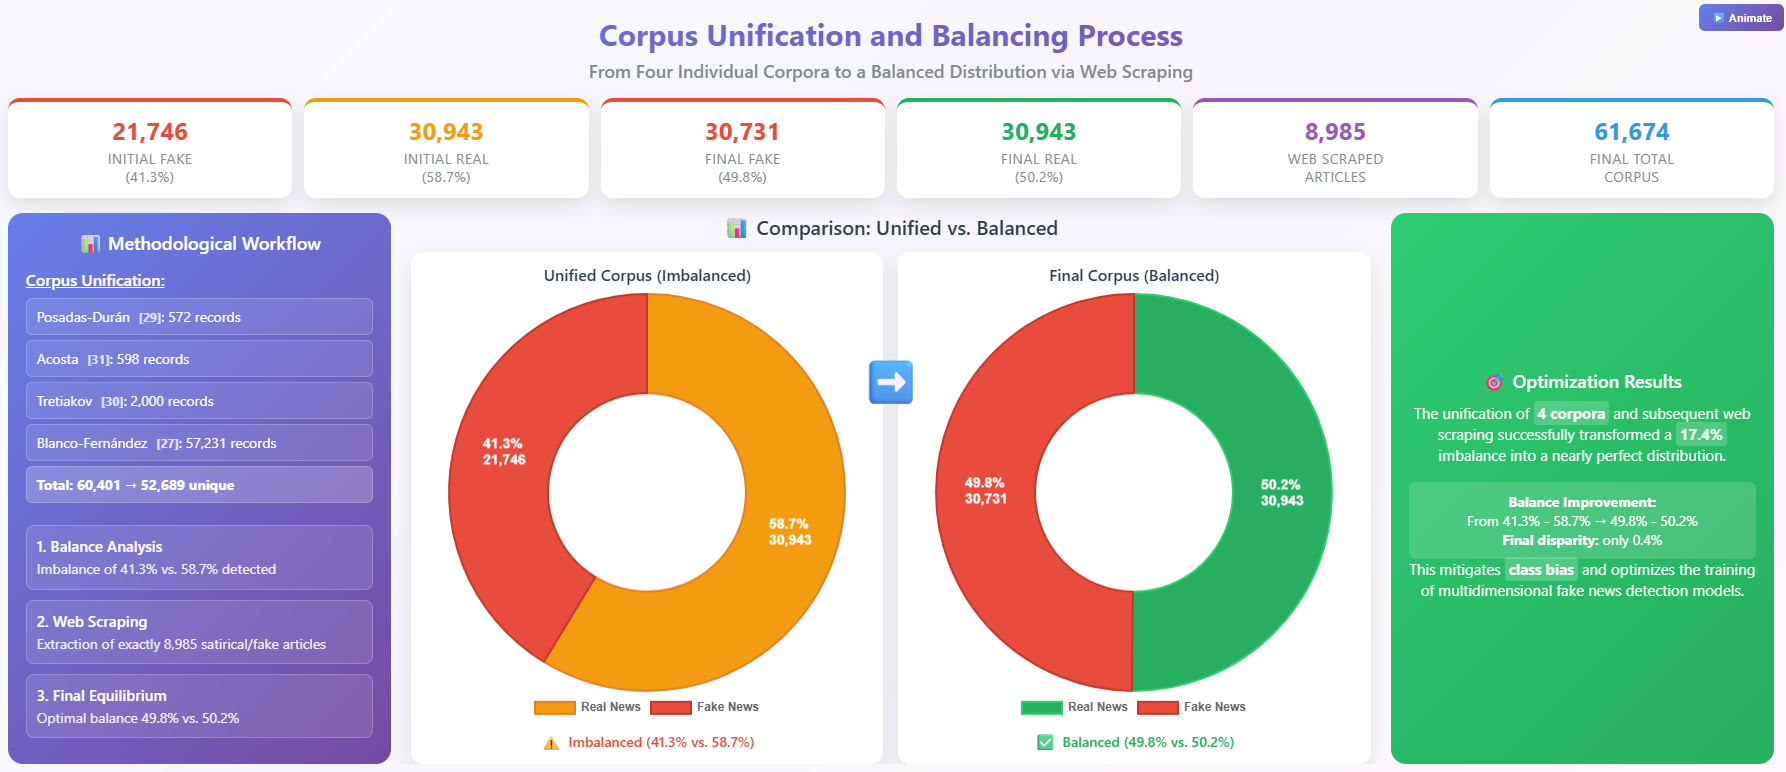
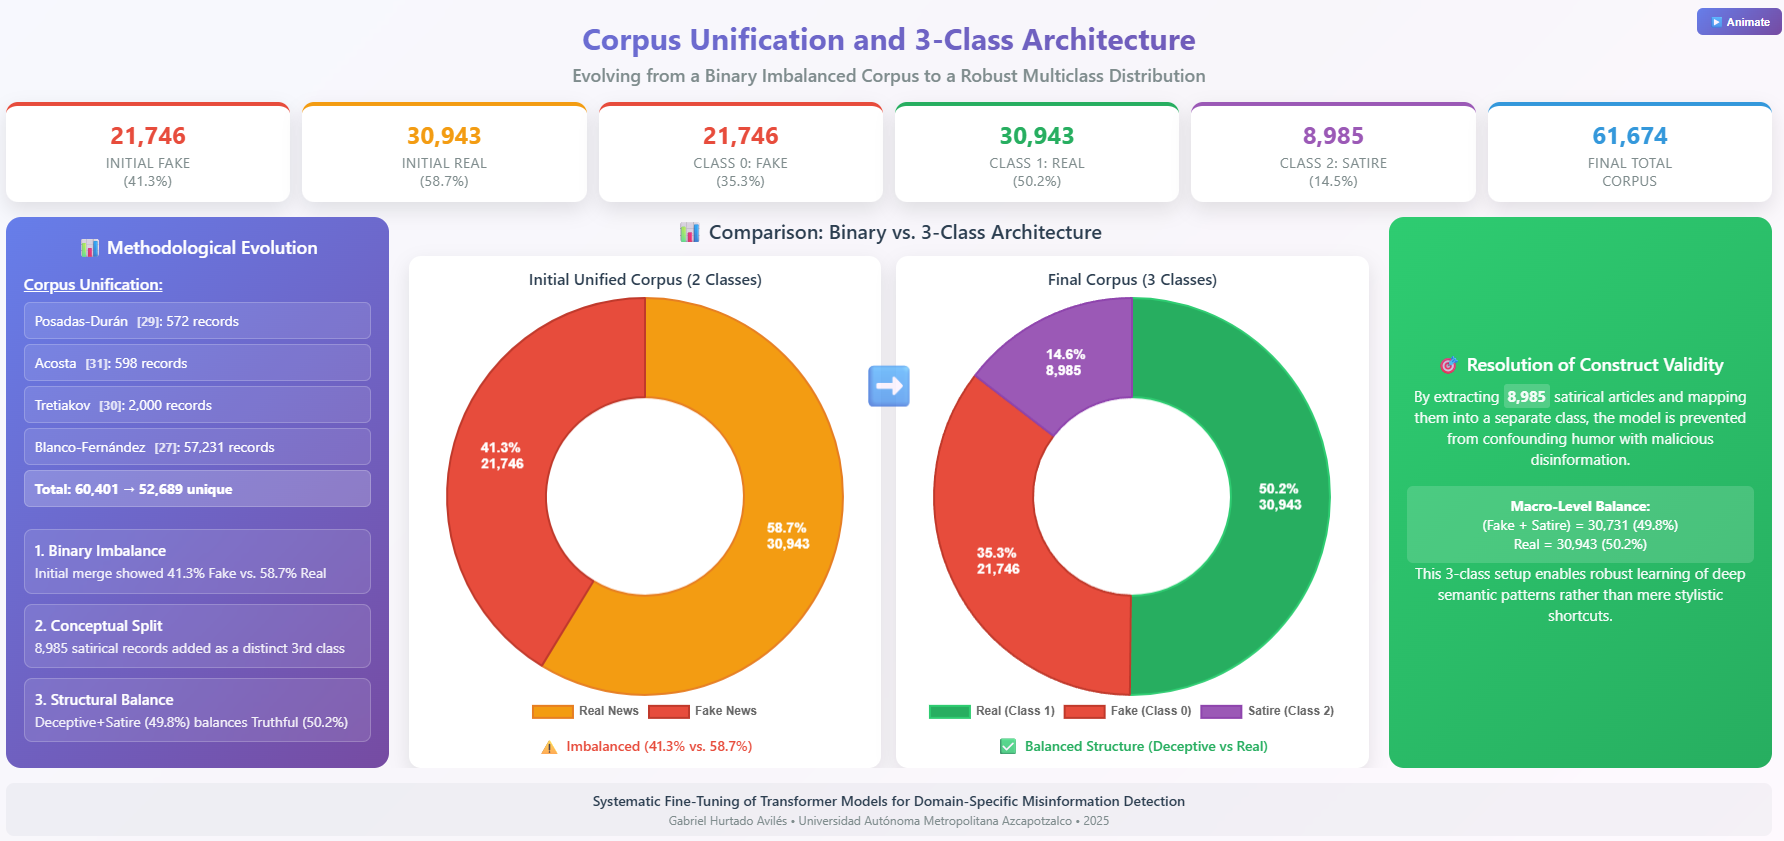
Update figures and comparative analysis
Add figure references to include DistilBERT confusion matrix, and insert a new subsection with a final comparative analysis and a performance table comparing DistilBERT against metaheuristic baselines. Also adjust related paragraph flow and move explanatory sentences for clarity. Replace corpus_balance.png and DistilBERT_confusion_matrix.png with updated images.

Changed region(s): [[0.0, 0.0311, 1.0, 0.9948], [0.7707, 0.9016, 1.0, 0.9948], [0.9557, 0.0, 1.0, 0.0311]]

diff --git a/MDPI_template/MDPI_template/Informatics/MDPI_template_ACS/template.tex b/MDPI_template/MDPI_template/Informatics/MDPI_template_ACS/template.tex
@@ -88,7 +88,8 @@ A progressive research design was adopted: a baseline is first established with 
 The main contributions of this work are:
 \begin{itemize}
     \item \textbf{A Transferable Fine-Tuning Framework:} A systematic three-stage pipeline (corpus unification, aggressive regularization, containerized deployment) is proposed for adapting pretrained transformer models to domain-specific deceptive content detection. The framework is explicitly designed to be transferable across languages, content domains, and social media platforms.
-    \item \textbf{A Systematic Regularization Methodology:} Through over 500 GPU hours of experimentation across 30+ configurations, an aggressive regularization strategy for fine-tuning DistilBERT (Distilled Bidirectional Encoder Representations from Transformers) is documented, achieving 95.36\% accuracy while maintaining a validation-training loss gap of 0.058. This represents a 23.33 percentage point improvement over metaheuristic-optimized classical methods and provides a reproducible recipe for practitioners facing similar optimization challenges.
+    \item \textbf{A Systematic Regularization Methodology:} Through over 500 GPU hours of experimentation across 30+ configurations, an aggressive regularization strategy for fine-tuning DistilBERT (Distilled Bidirectional Encoder Representations from Transformers) is documented, achieving 95.36\% accuracy while maintaining a validation-training loss gap of 0.058. The training and validation trajectories, demonstrating the effectiveness of the aggressive regularization strategy in preventing overfitting, are visually detailed in Figure \ref{fig:training_curves}.
+    This represents a 23.33 percentage point improvement over metaheuristic-optimized classical methods and provides a reproducible recipe for practitioners facing similar optimization challenges.
     \item \textbf{A Unified Spanish Corpus:} A standardized corpus of 61,674 Spanish news articles was constructed from four academic datasets \citep{posadas2019detection, acosta2019construccion, tretiakov2022detection, blanco2024enhancing} enhanced with web-scraped satirical content, achieving near-perfect balance (49.8\% fake, 50.2\% real)—one of the largest resources for this task.
     \item \textbf{A Production-Ready Web Application:} The optimized model was deployed as a Docker-containerized web application capable of real-time URL analysis, demonstrating that the framework extends beyond academic benchmarks to deliver practical tools for digital self-defense \citep{ali2022fake}.
 \end{itemize}
@@ -217,7 +218,9 @@ To ensure data quality and mitigate semantic overlaps that could cause data leak
 \textbf{Methodological Evolution: From Binary to Multiclass Classification.} 
 Initially, the research design conceptualized a binary classification task (Real vs. Fake), incorporating satirical articles as part of the "Fake" class to address class imbalance. However, extensive literature and preliminary evaluations revealed a critical construct-validity vulnerability: satire relies on irony, exaggeration, and parody markers, whereas malicious fake news relies on deceptive imitation of journalistic tone. Conflating the two forces the model to learn source-specific humor rather than robust misinformation cues, leading to miscalibration.
 
-To address this, the methodology evolved into a \textbf{three-class classification formulation}: FAKE (0), REAL (1), and SATIRE (2). The final, rigorously structured corpus consists of exactly \textbf{61,674 records}: the 52,689 deduplicated factual/deceptive articles, supplemented by an isolated class of \textbf{8,985} satirical articles extracted via web scraping from regional sources. This three-class architecture ensures the model learns to explicitly distinguish malicious disinformation from legitimate creative parody.
+To address this, the methodology evolved into a \textbf{three-class classification formulation}: FAKE (0), REAL (1), and SATIRE (2). The final, rigorously structured corpus consists of exactly \textbf{61,674 records}: the 52,689 deduplicated factual/deceptive articles, supplemented by an isolated class of \textbf{8,985} satirical articles extracted via web scraping from regional sources. This structural evolution and the resulting class distribution, which transitioned from a highly imbalanced binary setup to a three-class architecture, is visually summarized in Figure \ref{fig:corpus_balance}.
+
+This three-class architecture ensures the model learns to explicitly distinguish malicious disinformation from legitimate creative parody.
 
 Regarding sequence length, exploratory data analysis revealed that 87.4\% of the articles in the unified corpus fell within the 512-token limit of standard transformer architectures. Consequently, the remaining 12.6\% of articles were truncated. Empirical tests indicated that the most critical deceptive markers (e.g., clickbait headlines, urgency triggers in the opening paragraphs) are heavily concentrated in the first 256 tokens, negating the computational overhead that would be required to implement long-sequence encoders (such as Longformer or BigBird) for this specific domain.
 
@@ -393,9 +396,44 @@ Conversely, Particle Swarm Optimization (PSO) exhibited the lowest performance (
 \subfloat[MSA Confusion Matrix]{\includegraphics[width=0.48\textwidth]{Figures/confusion_matrix_msa.png}}
 \\
 \subfloat[PSO Confusion Matrix]{\includegraphics[width=0.48\textwidth]{Figures/confusion_matrix_pso.png}}
-\caption{Confusion matrices for the five metaheuristic algorithms on the test set.}
+\hfill
+\subfloat[DistilBERT Confusion Matrix]{\includegraphics[width=0.48\textwidth]{Figures/DistilBERT_confusion_matrix.png}}
+\caption{Confusion matrices evaluated on the test set. (a)-(e) show the performance of classical metaheuristic algorithms, while (f) demonstrates the superior classification capability of the fine-tuned DistilBERT model.}
 \label{fig:metaheuristic_confusion_matrices}
 \end{figure}
+
+\subsection{Final Comparative Analysis: Metaheuristics vs. Transformer}
+To quantify the impact of the architectural shift from classical ML to Deep Learning, a direct comparison of the best-performing models from each paradigm was performed. Table \ref{tab:final_comparison_all_models} presents the consolidated results.
+
+The DistilBERT model outperformed the best metaheuristic algorithm (GA) by a significant margin of \textbf{23.33 percentage points} in accuracy (95.36\% vs. 72.03\%). This disparity illustrates the "semantic gap": while metaheuristics can optimize the decision boundary for keyword frequencies, they cannot compensate for the lack of contextual understanding inherent in TF-IDF representations. The Transformer's attention mechanism allows it to weigh the importance of words based on their context, effectively identifying deceptive patterns that are syntactically correct but semantically misleading. Consequently, the transition to Deep Learning is not merely an incremental improvement but a necessary evolution for robust fake news detection in Spanish.
+
+\begin{table}[H] 
+\caption{Final performance comparison between all implemented models on the test set.}
+\label{tab:final_comparison_all_models}
+\centering
+\adjustbox{width=\textwidth,center}{%
+\small
+\begin{tabular}{lcccccc}
+\toprule
+\textbf{Algorithm} & \textbf{Accuracy (\%)} & \textbf{F1-Score (macro)} & \textbf{Precision (macro)} & \textbf{Recall (macro)} & \textbf{Specificity (\%)} & \textbf{Ranking} \\
+\midrule
+\multicolumn{7}{c}{\textit{Transformer-Based Approach}} \\
+\midrule
+\textbf{DistilBERT (Final)} & \textbf{95.36} & \textbf{0.954} & \textbf{0.954} & \textbf{0.954} & \textbf{94.5} & \textbf{1st} \\
+\midrule
+\multicolumn{7}{c}{\textit{Metaheuristic-Optimized Classical Approaches}} \\
+\midrule
+Genetic Algorithm (GA) & 72.03 & 0.714 & 0.740 & 0.720 & 57.6 & 2nd \\
+Scatter Search (SS) & 67.64 & 0.669 & 0.693 & 0.676 & 52.7 & 3rd \\
+VNS & 66.78 & 0.659 & 0.686 & 0.667 & 51.0 & 4th \\
+Simulated Annealing (MSA) & 60.86 & 0.586 & 0.638 & 0.608 & 37.4 & 5th \\
+Particle Swarm Opt. (PSO) & 57.67 & 0.489 & 0.736 & 0.575 & 16.3 & 6th \\
+\bottomrule
+\end{tabular}
+}
+\end{table}
+
+Given that the baseline transformer (DistilBERT) demonstrated absolute superiority over classical metaheuristic approaches, the study proceeded to rigorously evaluate an extended battery of state-of-the-art transformer architectures to identify the optimal encoder for Spanish-language deceptive content.
 
 \subsection{Performance of the Systematically Fine-Tuned Transformer (Stage 2b)}
 To rigorously validate the transformer architecture and address the limitations of classical baselines, a comprehensive benchmarking of eight state-of-the-art transformer models was conducted under the exact same three-class formulation (Real, Fake, Satire) and using the V11 regularization strategy. The evaluated models included multilingual encoders (mBERT, XLM-RoBERTa-base, XLM-RoBERTa-large), general Spanish encoders (BETO, RoBERTa-base-bne, RoBERTa-large-bne), and distilled versions (DistilBERT, DistilBETO).
@@ -434,37 +472,6 @@ A common criticism in automated deception detection is the risk of "source leaka
 To systematically test the chosen BETO V11 model against source leakage, an \textbf{Adversarial Robustness Test} was executed. Using a Named Entity Recognition (NER) masking technique, all specific entities (Person, Organization, Location) in a hold-out sample were masked and synthetic typographical errors were introduced. 
 
 Despite the removal of explicit publisher cues, the model maintained an F1-Score of \textbf{0.96} for the Satire class and \textbf{0.86} overall. This proves that the transformer learned deep stylistic and semantic signatures (e.g., exaggeration, urgency, syntactic structure) rather than memorizing vocabulary. This semantic resilience strongly supports the framework's transferability claims: because the model detects "deceptive style" rather than specific topics, the underlying methodology can be seamlessly transferred to detecting phishing or fraudulent e-commerce scams by swapping the training payload.
-
-\subsection{Final Comparative Analysis: Metaheuristics vs. Transformer}
-To quantify the impact of the architectural shift from classical ML to Deep Learning, a direct comparison of the best-performing models from each paradigm was performed. Table \ref{tab:final_comparison_all_models} presents the consolidated results.
-
-The DistilBERT model outperformed the best metaheuristic algorithm (GA) by a significant margin of \textbf{23.33 percentage points} in accuracy (95.36\% vs. 72.03\%). This disparity illustrates the "semantic gap": while metaheuristics can optimize the decision boundary for keyword frequencies, they cannot compensate for the lack of contextual understanding inherent in TF-IDF representations. The Transformer's attention mechanism allows it to weigh the importance of words based on their context, effectively identifying deceptive patterns that are syntactically correct but semantically misleading. Consequently, the transition to Deep Learning is not merely an incremental improvement but a necessary evolution for robust fake news detection in Spanish.
-
-\begin{table}[H] 
-\caption{Final performance comparison between all implemented models on the test set.}
-\label{tab:final_comparison_all_models}
-\centering
-\adjustbox{width=\textwidth,center}{%
-\small
-\begin{tabular}{lcccccc}
-\toprule
-\textbf{Algorithm} & \textbf{Accuracy (\%)} & \textbf{F1-Score (macro)} & \textbf{Precision (macro)} & \textbf{Recall (macro)} & \textbf{Specificity (\%)} & \textbf{Ranking} \\
-\midrule
-\multicolumn{7}{c}{\textit{Transformer-Based Approach}} \\
-\midrule
-\textbf{DistilBERT (Final)} & \textbf{95.36} & \textbf{0.954} & \textbf{0.954} & \textbf{0.954} & \textbf{94.5} & \textbf{1st} \\
-\midrule
-\multicolumn{7}{c}{\textit{Metaheuristic-Optimized Classical Approaches}} \\
-\midrule
-Genetic Algorithm (GA) & 72.03 & 0.714 & 0.740 & 0.720 & 57.6 & 2nd \\
-Scatter Search (SS) & 67.64 & 0.669 & 0.693 & 0.676 & 52.7 & 3rd \\
-VNS & 66.78 & 0.659 & 0.686 & 0.667 & 51.0 & 4th \\
-Simulated Annealing (MSA) & 60.86 & 0.586 & 0.638 & 0.608 & 37.4 & 5th \\
-Particle Swarm Opt. (PSO) & 57.67 & 0.489 & 0.736 & 0.575 & 16.3 & 6th \\
-\bottomrule
-\end{tabular}
-}
-\end{table}
 
 \subsection{Overfitting Control Analysis}
 The implementation of a rigorous regularization strategy successfully mitigated overfitting across all transformer architectures. Rather than relying on a fixed number of epochs—which inherently varies depending on the data subset and initial weight instantiation—training was dynamically governed by an early stopping criterion. Training concluded autonomously when the validation loss plateaued and ceased to improve for eight consecutive passes. The optimal model weights were then automatically restored from the checkpoint that minimized the generalization gap (validation vs. training loss), ensuring peak performance before the onset of memorization. 